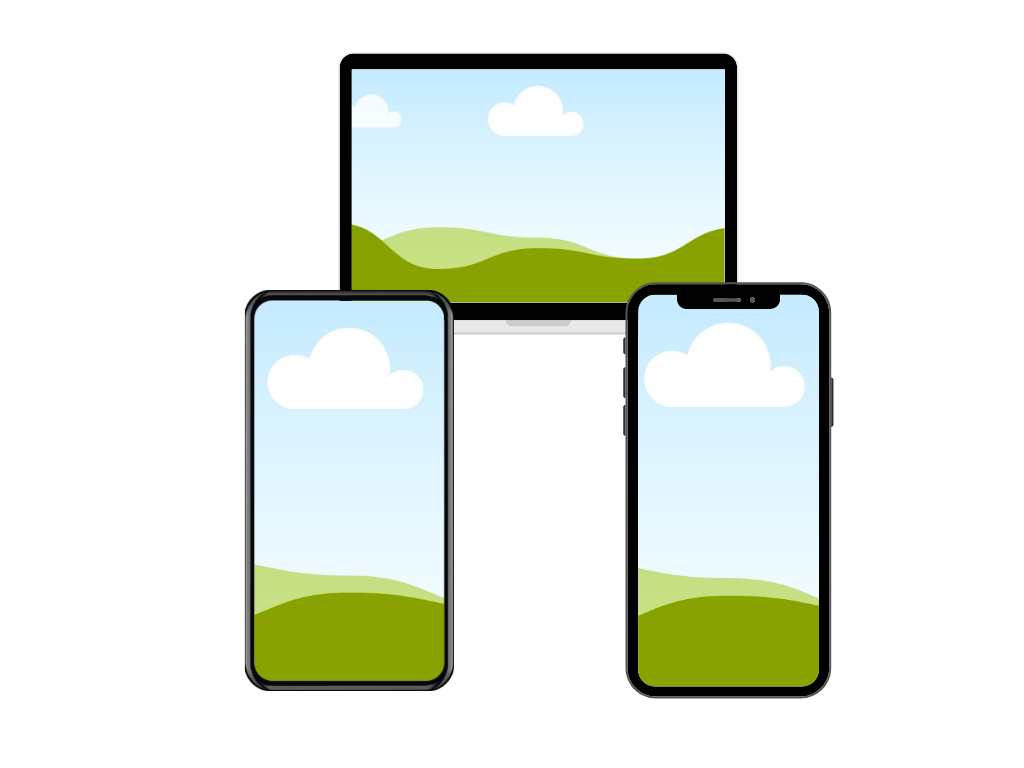
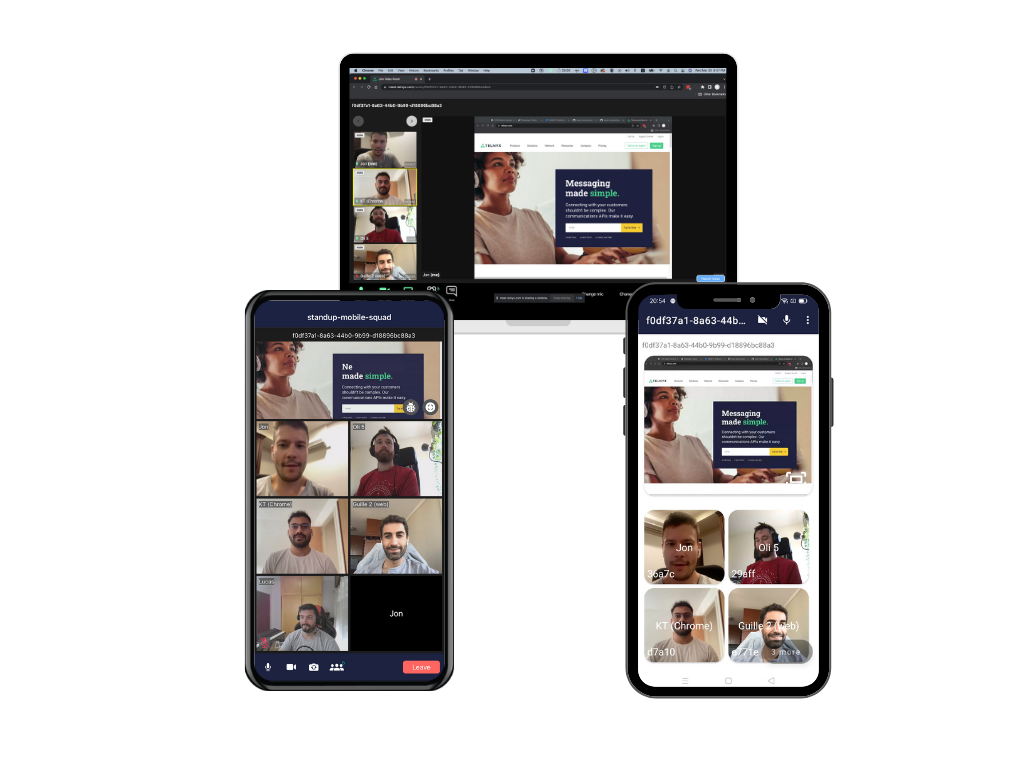
chore: update screenshot of different devices running the app

Changed region(s): [[0.25, 0.0625, 0.8125, 0.9062]]

diff --git a/README.md b/README.md
@@ -1,7 +1,7 @@
 # Telnyx Meet iOS App
 This is an example app built with the [Telnyx Video iOS SDK](https://github.com/team-telnyx/telnyx-video-ios). The code is open source and easy to configure so developers can try out real time video an audio features.
 
-### ![create api key](screenshots/multiple-devices-running-app.png)
+### ![screenshot](screenshots/multiple-devices-running-app.png)
 
 ## Features
 - [x] Real time video conferencing with audio and video
